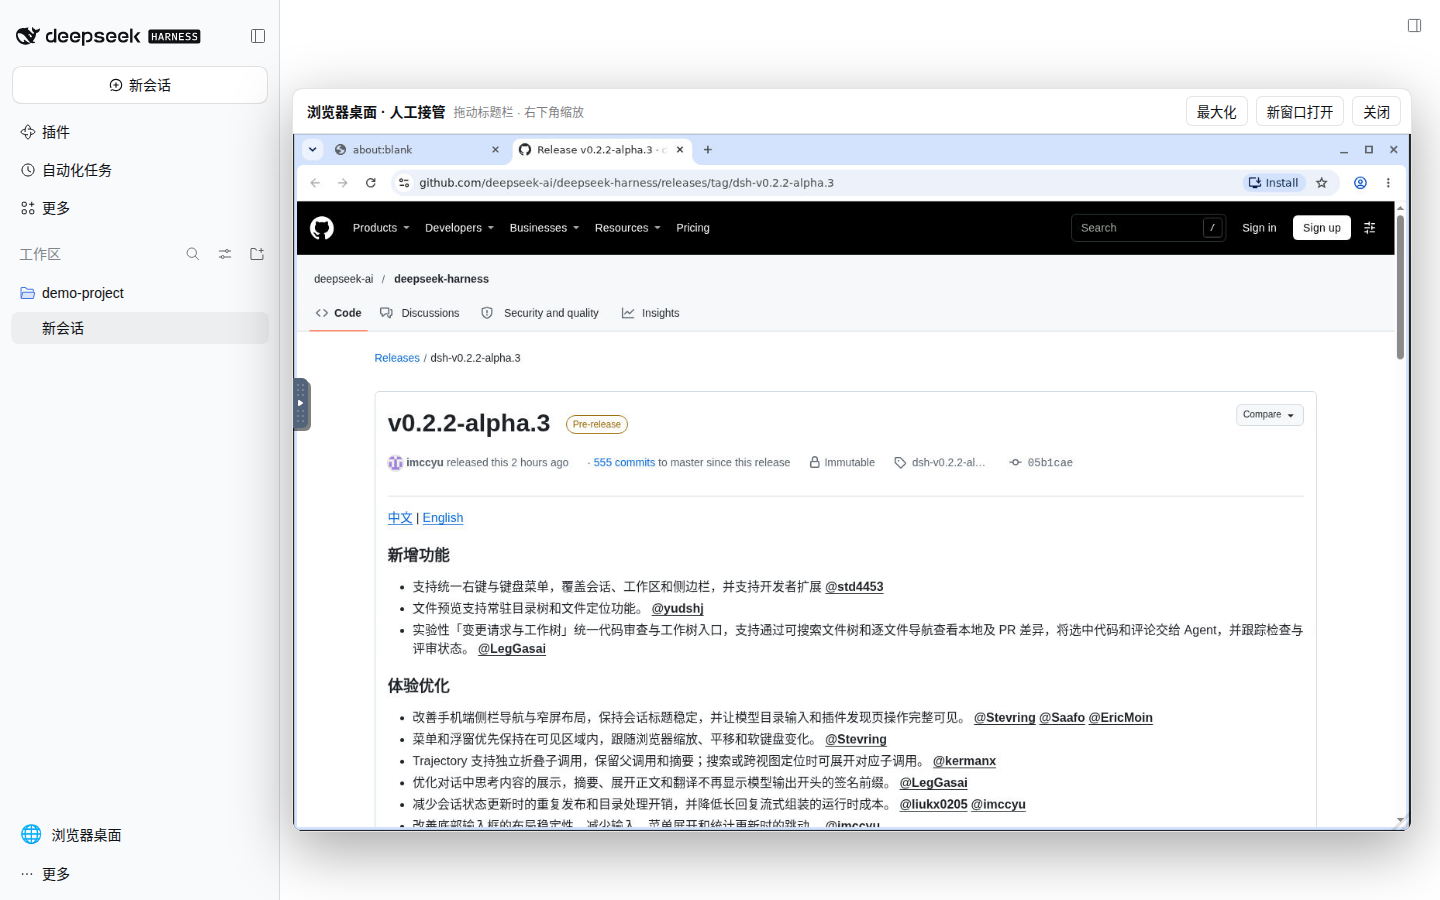
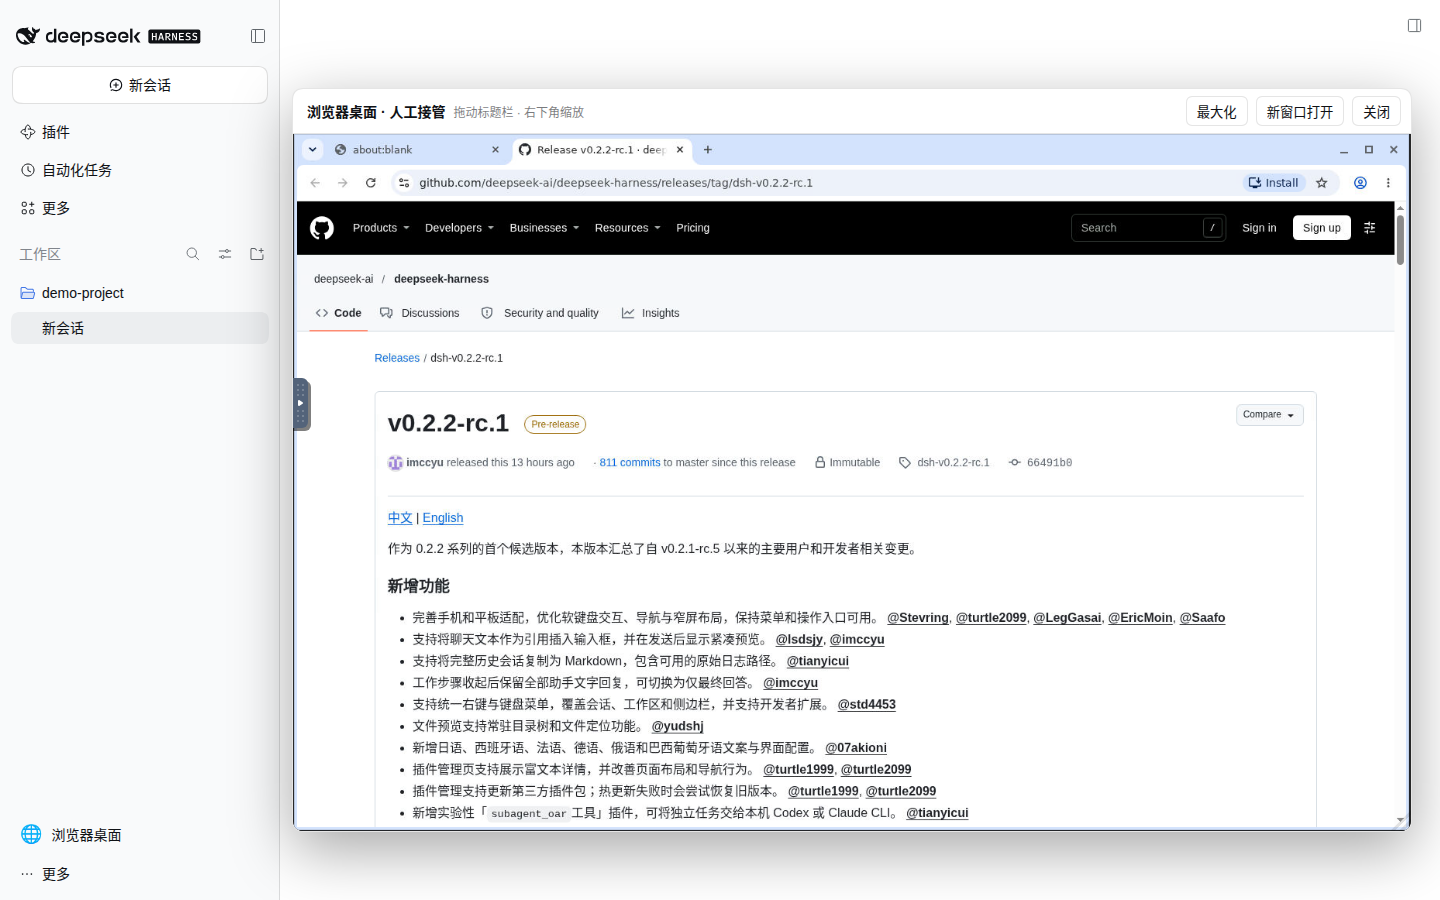
docs: refresh Light screenshots for DSH 0.2.2-rc.1

diff --git a/README.en.md b/README.en.md
@@ -44,7 +44,7 @@ This project packages the official DSH npm distribution into a reproducible Dock
 
 ![DeepSeek Harness Web UI running from this image](assets/deepseek-harness-web.png)
 
-_Light-theme capture (2026-11-03, DSH `0.2.2-alpha.3`) from an isolated, empty demo workspace. No personal sessions or credentials are shown. No model was configured and no model call was made._
+_Light-theme capture (2026-11-05, DSH `0.2.2-rc.1`) from an isolated, empty demo workspace. No personal sessions or credentials are shown. No model was configured and no model call was made._
 
 ## Project status
 
@@ -264,7 +264,7 @@ The public plugin uses Harness's `sidebar.footer.action` and `shell.overlay` ext
 
 ![Movable and resizable Chromium browser embedded in the Harness Web UI](assets/browser-desktop-webui.png)
 
-_Light-theme capture (2026-11-03, DSH `0.2.2-alpha.3`, browser-desktop plugin `0.1.6`): the browser panel is inside Harness and displays the official 0.2.2-alpha.3 GitHub Release page._
+_Light-theme capture (2026-11-05, DSH `0.2.2-rc.1`, browser-desktop plugin `0.1.6`): the browser panel is inside Harness and displays the official 0.2.2-rc.1 GitHub Release page._
 
 This follows the visible-desktop idea from [`docker-antigravity`](https://github.com/runzhliu/docker-antigravity) without adopting its amd64 base or Selkies. Debian's native packages keep the image usable on both Apple Silicon and x86 Linux. The official [Browser Use architecture](https://github.com/deepseek-ai/deepseek-harness/blob/master/docs/subsystems/browser-use.md) and [Sidebar Browser limitations](https://github.com/deepseek-ai/deepseek-harness/blob/master/packages/client/ui-sidebar-browser/README.md) describe the boundary between these layers. Port 6080 is loopback-only like 3080; the native noVNC endpoint has no authentication and must never be exposed directly. The optional LAN overlay carries the versioned `/novnc-*` route through the same HTTPS and authentication boundary as the Web UI.
 
@@ -350,7 +350,7 @@ The variant has the unambiguous `runzhliu/deepseek-harness:0.2.2-rc.1-r1-market.
 
 ![Light-theme community plugin market in the optional market image](assets/plugin-market-webui.png)
 
-_Captured from the optional market image (2026-11-03, DSH `0.2.2-alpha.3`, `dshmarket@1.66.9`); this page is absent from the default image. Catalog entries and compatibility indicators change over time. This screenshot shows browsing only; none of the displayed plugins were installed._
+_Captured from the optional market image (2026-11-05, DSH `0.2.2-rc.1`, `dshmarket@1.66.9`); this page is absent from the default image. Catalog entries and compatibility indicators change over time. This screenshot shows browsing only; none of the displayed plugins were installed._
 
 The market package itself is pinned and copied at build time. Plugins installed through it and the pnpm store persist in the `dsh-home` volume. Installation needs container egress to npm/GitHub, and third-party build scripts should remain blocked until separately reviewed and approved. One-click market restart is disabled; apply lifecycle changes with `docker compose restart` or a Kubernetes rollout.
 
